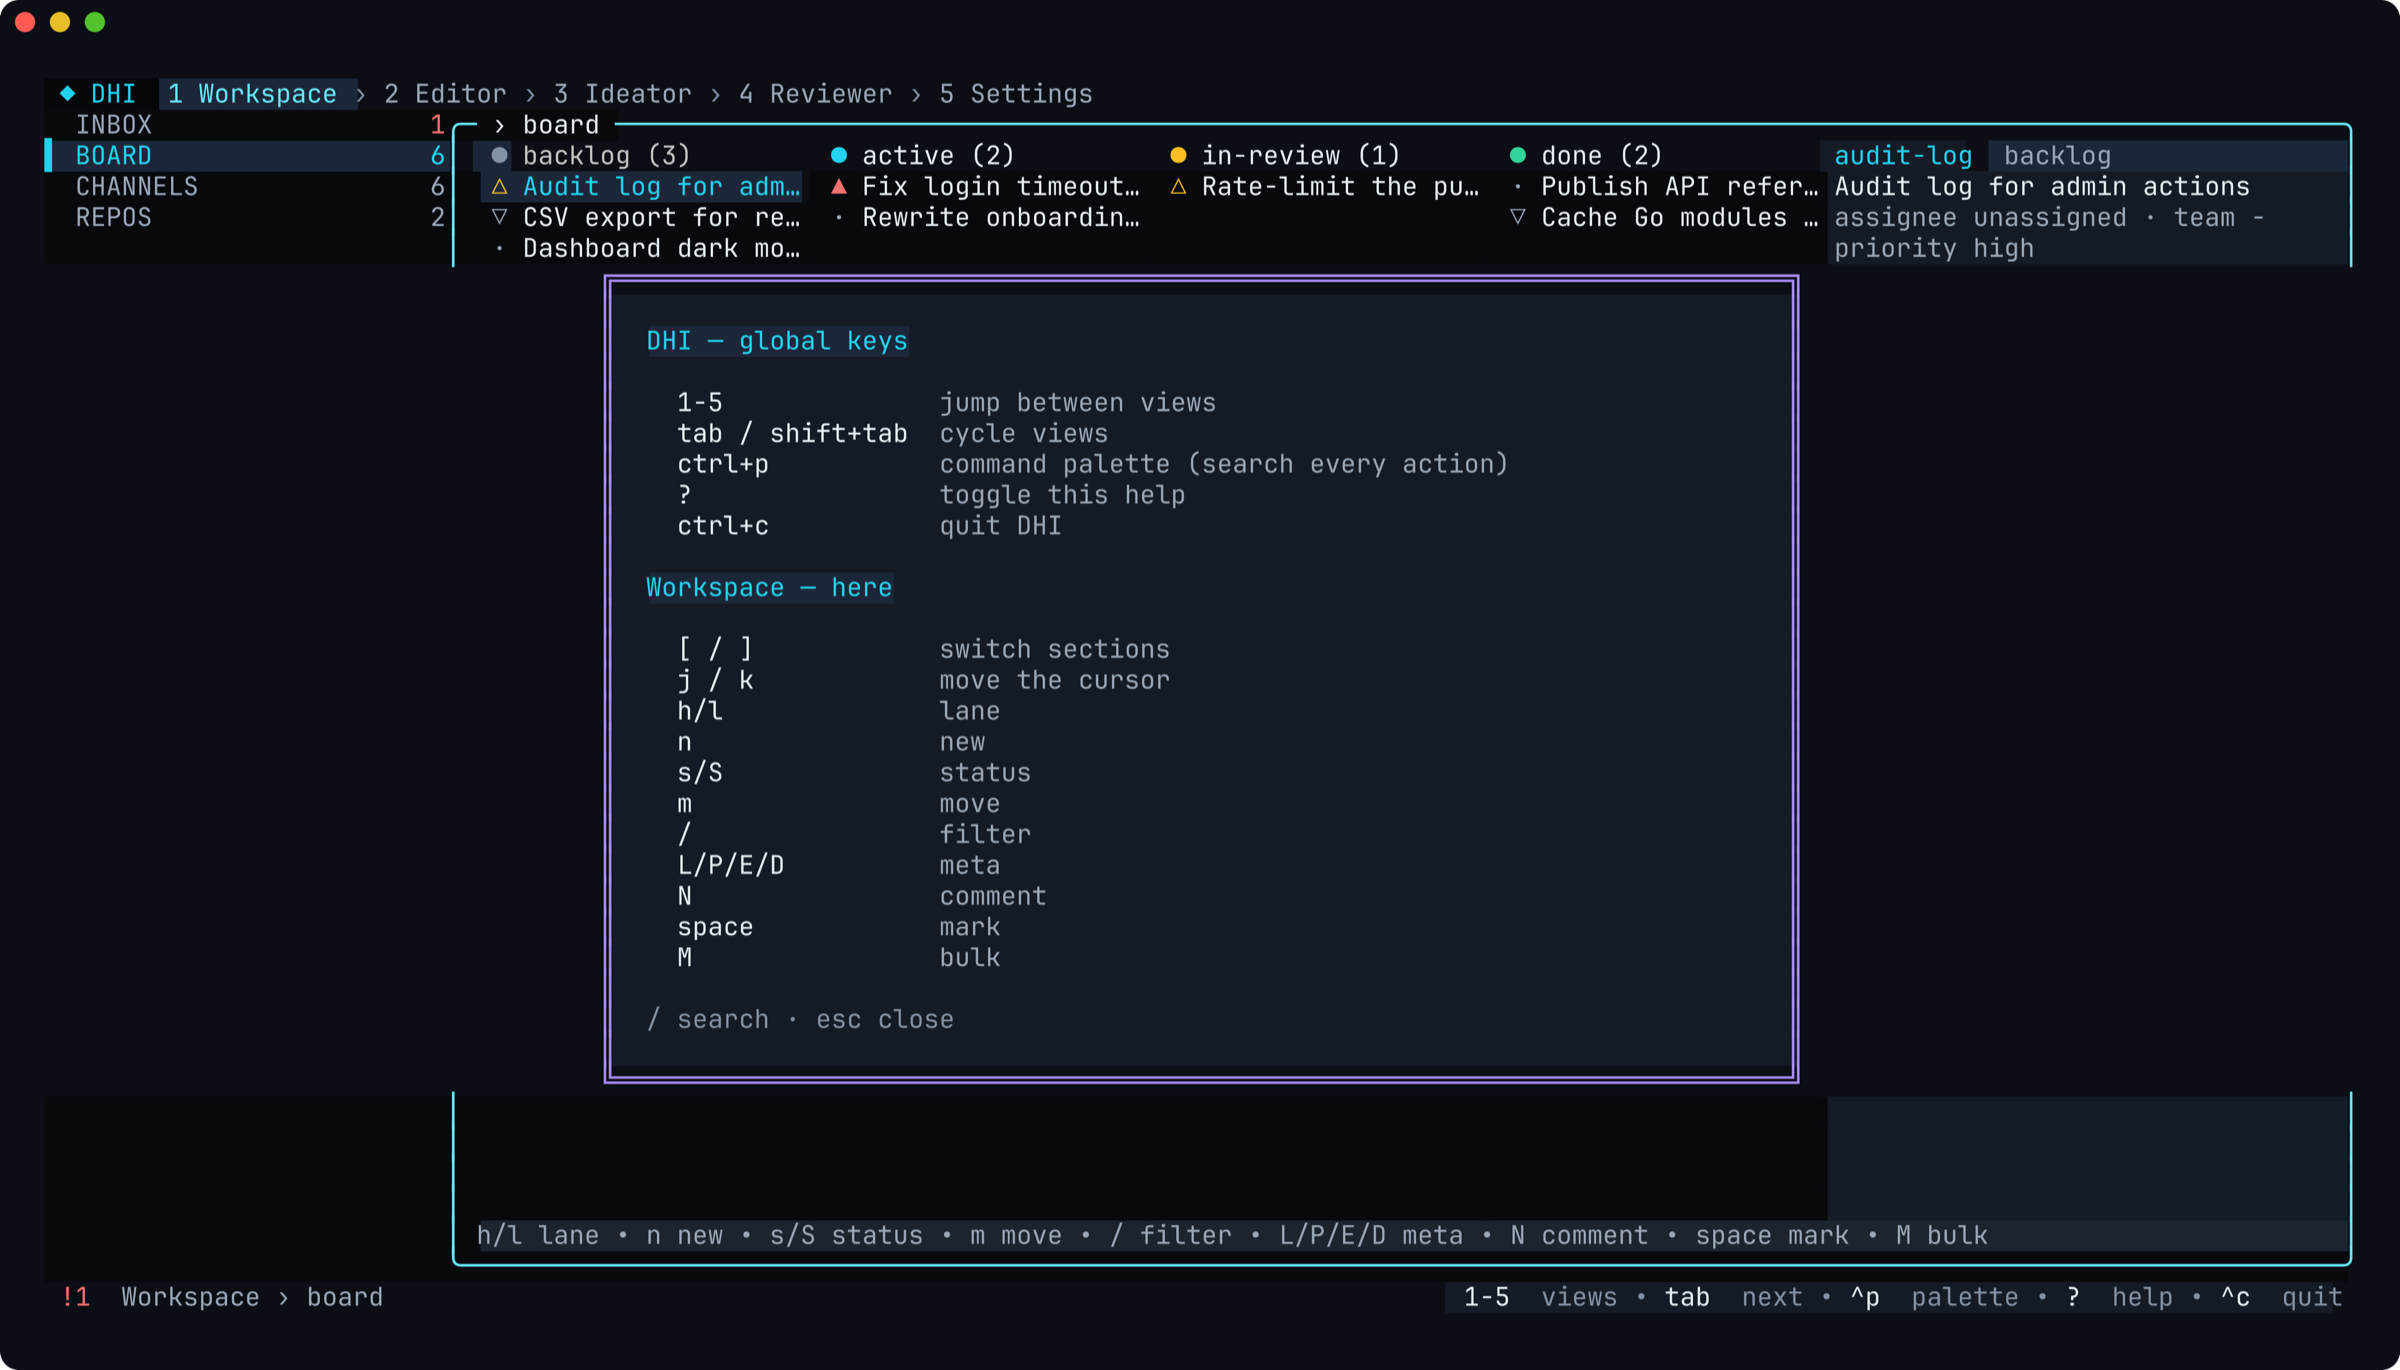
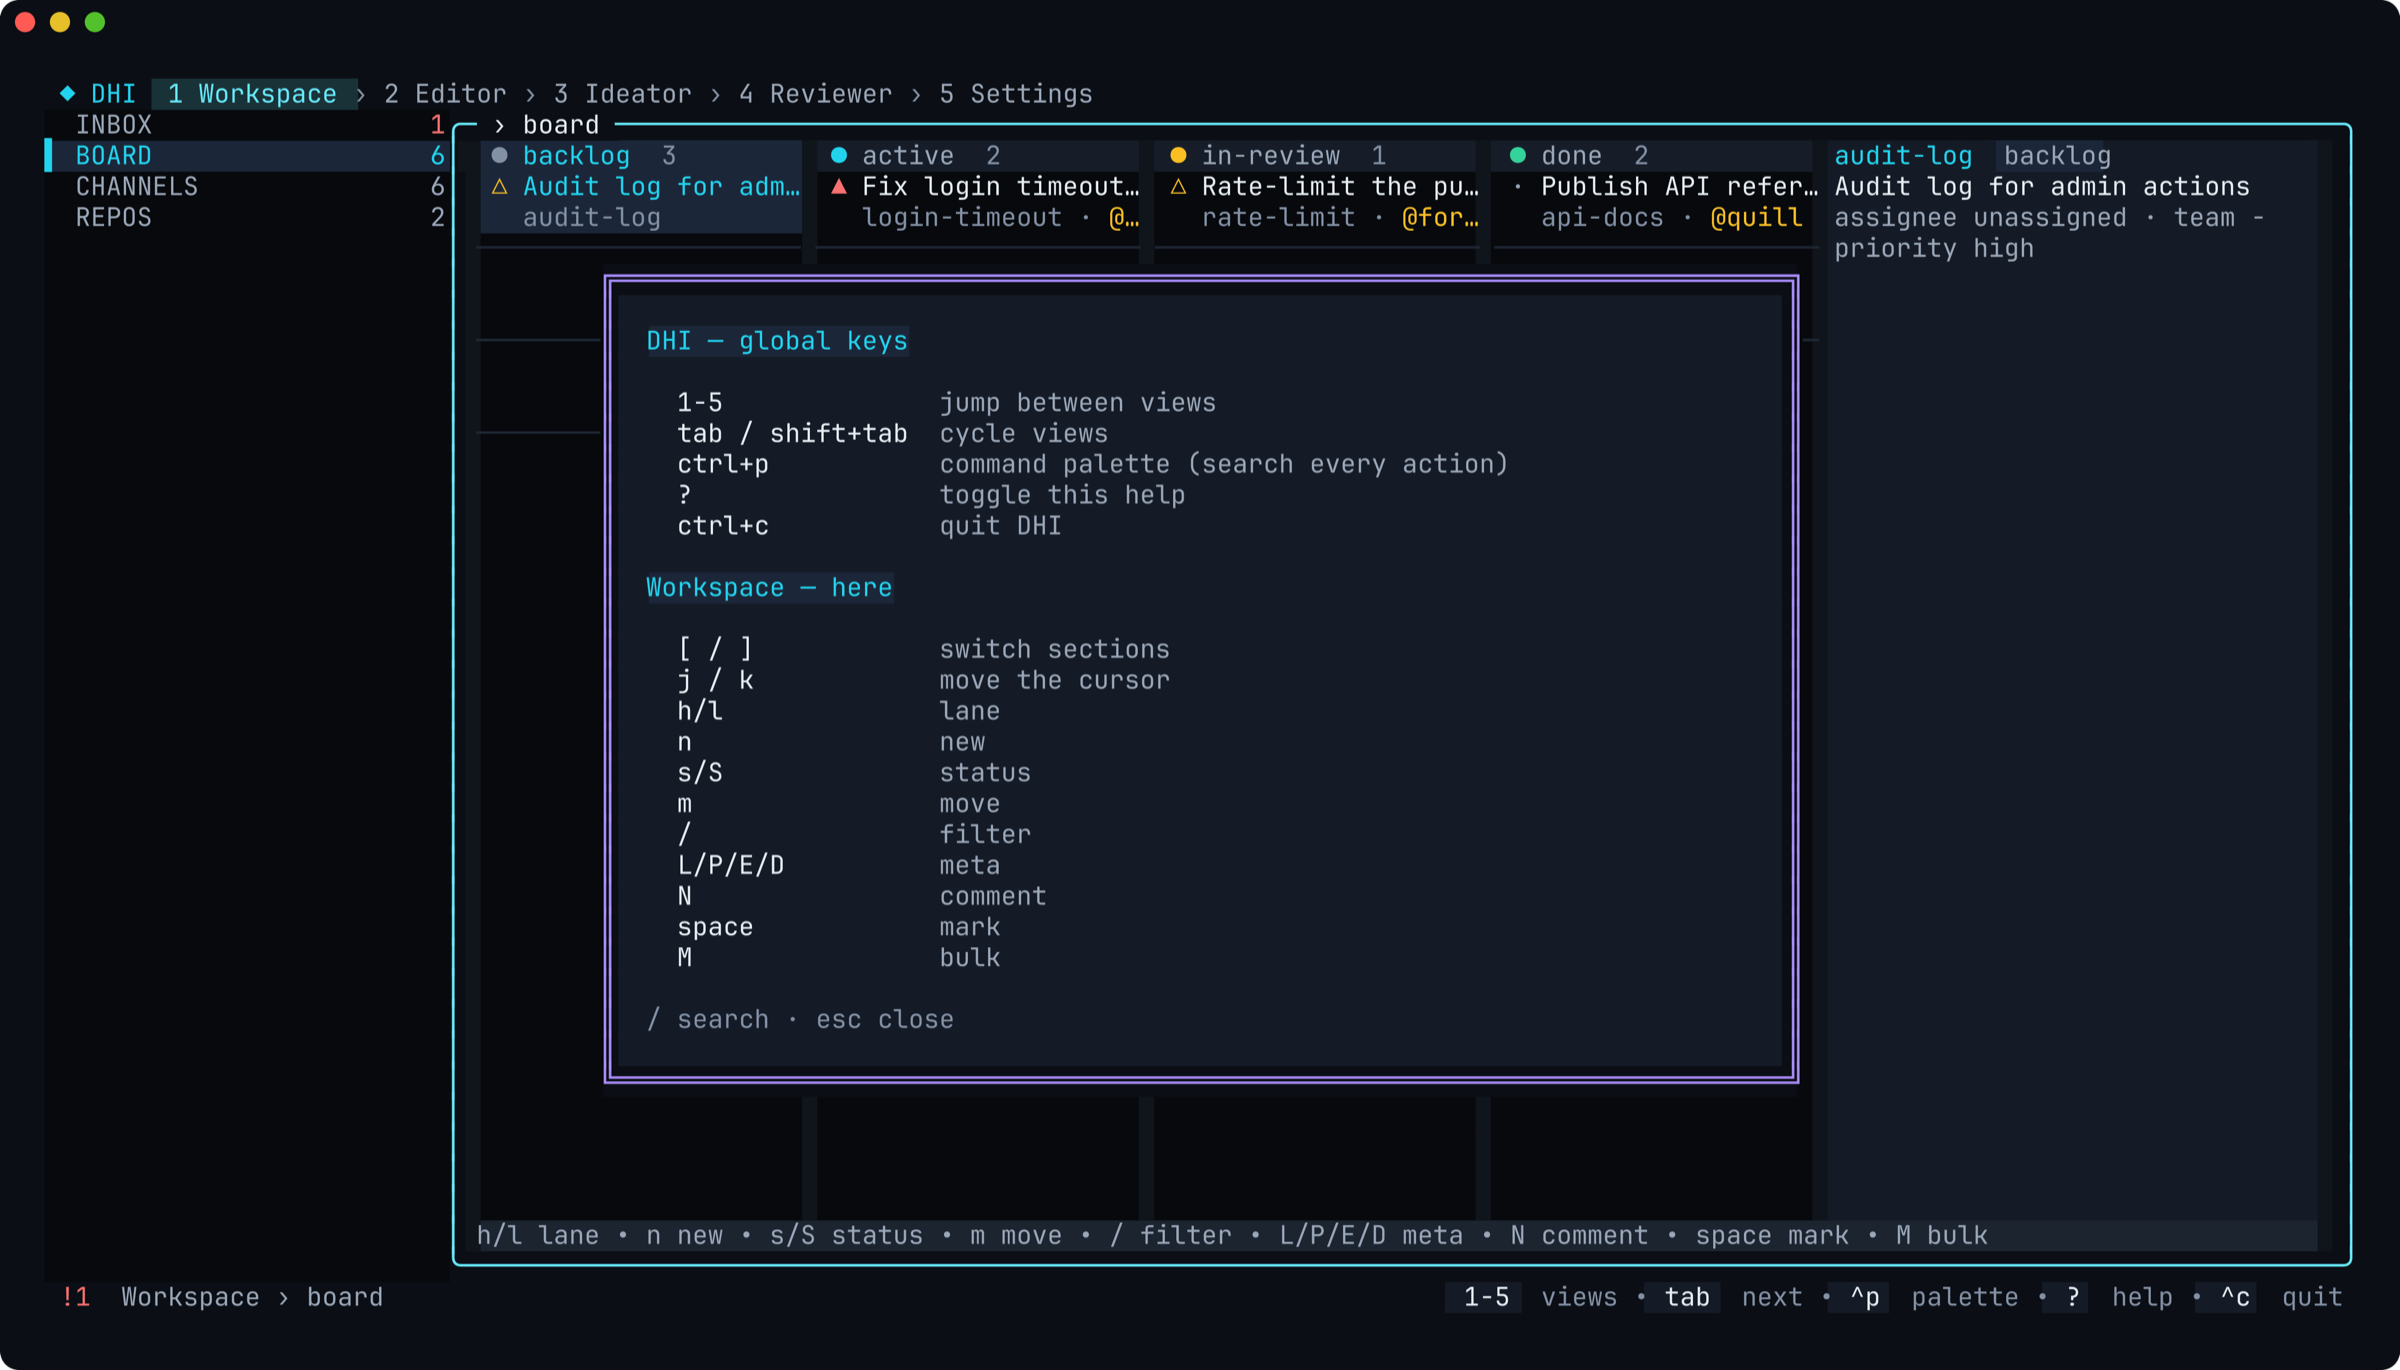
docs: README gallery covers every surface; F-064 done (F-064 P4)
Twelve regenerated screenshots (new: inbox, dialog, terminal, ideator,
settings). screenshots.sh gives the drawer shell a neutral prompt so no
real user or host lands in an image, and maps SGR 49 for freeze. Split
panes and panel titles restyle around pills instead of re-rendering
them; overlay margins clear whole phrases.

diff --git a/internal/tui/kit/modal.go b/internal/tui/kit/modal.go
@@ -178,8 +178,8 @@ func Overlay(backdrop []string, box string, width, height int) string {
 	// A one-cell margin beside the box is cleared of backdrop text (its
 	// background and any border glyphs stay) so words never butt
 	// against the box edge.
-	// The margin widens to whole words, so no fragment of a word is left
-	// peeking out beside the box.
+	// The margin widens to whole phrases, so no fragment of a word or a
+	// card title is left peeking out beside the box.
 	span := func(back string) (lo, hi int) {
 		cells := ansi.Cells(back)
 		word := func(x int) bool {
@@ -189,11 +189,13 @@ func Overlay(backdrop []string, box string, width, height int) string {
 			r := cells[x].R
 			return r != ' ' && (r < 0x2500 || r > 0x259F)
 		}
+		// A phrase continues across single spaces ("▽ CSV export"), so
+		// the clear stops only at a gap of two or more cells or a border.
 		lo, hi = max(col-1, 0), min(col+bw+1, width)
-		for word(lo - 1) {
+		for word(lo-1) || (lo-1 >= 0 && cells[lo-1].R == ' ' && word(lo-2)) {
 			lo--
 		}
-		for word(hi) {
+		for word(hi) || (hi < len(cells) && cells[hi].R == ' ' && word(hi+1)) {
 			hi++
 		}
 		return lo, hi

diff --git a/internal/tui/surfaces/editor/bg_integrity_test.go b/internal/tui/surfaces/editor/bg_integrity_test.go
@@ -19,4 +19,12 @@ func TestBackgroundIntegrity(t *testing.T) {
 	feed(m, "ctrl+t")
 	m.Resize(140, 36)
 	golden.AssertBgIntegrity(t, "wide", m.View())
+	m = newEditor(t)
+	m.Resize(160, 30)
+	m.OpenPaths(vpathAbs(t, m.ws, "alpha/app.go"), vpathAbs(t, m.ws, "beta/README.md"))
+	feed(m, "ctrl+w", "v")
+	if !m.splitActive() {
+		t.Fatal("split did not open")
+	}
+	golden.AssertBgIntegrity(t, "split", m.View())
 }

diff --git a/internal/tui/surfaces/editor/split.go b/internal/tui/surfaces/editor/split.go
@@ -91,7 +91,7 @@ func (m *Model) bufferPanel(i, w, h int, focused bool) string {
 	if focused {
 		title += m.diagChip(e)
 	} else {
-		title = theme.TextDim().Render(title)
+		title = kit.Restyle(theme.TextDim(), title) // the mode pill inside keeps its own colors
 	}
 	body := joinV(tabStrip(m.bufs, i, w-2), m.bufferView())
 	p := kit.NewPanel(title, focused)

diff --git a/internal/tui/kit/panel.go b/internal/tui/kit/panel.go
@@ -150,7 +150,7 @@ func topEdge(width int, title string, edge, titleSt lipgloss.Style) string {
 		fill = 1
 	}
 	return edge.Render(rb.TopLeft+rb.Top) +
-		titleSt.Render(head) +
+		Restyle(titleSt, head) + // titles may carry pills (F-064)
 		edge.Render(strings.Repeat(rb.Top, fill)+rb.TopRight)
 }
 

diff --git a/docs/features/F-064-ui-cohesion.md b/docs/features/F-064-ui-cohesion.md
@@ -1,6 +1,6 @@
 # F-064 — UI cohesion: background integrity, a livelier theme, richer components
 
-Status: in progress (M28)
+Status: done (M28)
 
 ## Problem
 Backgrounds were inconsistent across the app. A dialog left dark bands
@@ -23,7 +23,7 @@ structure.
   hole or paint past its width.
 - **Dialogs touch only their box.** `kit.Overlay` splices the box into the
   backdrop rows. Cells beside it keep their characters and colors, pane
-  borders stay, and a one-cell margin beside it (widened to whole words) is cleared
+  borders stay, and a one-cell margin beside it (widened to whole phrases) is cleared
   of text so nothing butts against the edge. There is no dim veil and no
   shadow row, and the box is one solid elevated block, edges included.
   The dialog is one row shorter than before.
@@ -31,9 +31,28 @@ structure.
   box drawn with corner glyphs must have every interior cell painted and
   its right edge in place. Every raw-ANSI `golden.Snapshot` runs the check,
   and each surface has a sweep test over its sections and dialogs.
-- **Theme and components.** Phase 2 adds shade and accent tokens, and
-  Phase 3 upgrades the tree, terminal, board, channels, reviewer, settings,
-  ideator and chrome. Both are listed in the acceptance section.
+- **Theme.** New tokens in all three themes: a header shade, zebra and
+  cursor-line shades, a quiet rule color, and teal and rose accents. New
+  helpers cover tinted pills, section headers, rules, stable per-author
+  colors and file-kind glyphs (plain Unicode, no Nerd Font).
+- **Components.**
+  - The file tree has guide rails, chevrons and colored kind glyphs, with
+    git letters and branch pills from a cached go-git status.
+  - The terminal drawer and git panel span the full width, show tabs as
+    pills, light their edge when focused, and carry their keys in a hint
+    footer.
+  - The editor shows tabs and the mode as pills and colors the current
+    line number.
+  - Board cards take two lines, separated by rules, under header strips
+    with counts.
+  - Channels give each agent its own color, use rule dividers and show
+    the composer as an input bar.
+  - Ideator sessions render as two-line cards with mode pills.
+  - The reviewer adds kind glyphs, a viewed meter and header strips, with
+    the review state as a pill.
+  - Settings groups CONFIG with dotted leaders and colored booleans.
+  - The active tab, section strip and mode chip are pills in the view's
+    accent.
 
 ## Acceptance
 - [x] integrity check passes for every surface/state swept (workspace
@@ -44,8 +63,8 @@ structure.
       characters outside the cleared margin stay unchanged (kit test)
 - [x] the reviewer diff fills the panel's inner width and never crosses
       the edge
-- [ ] theme gains header/zebra/cursor-line/rule shades and two accents in
+- [x] theme gains header/zebra/cursor-line/rule shades and two accents in
       all three themes, covered by the contrast tests
-- [ ] component upgrades: tree, terminal drawer, editor tabs/mode, board
+- [x] component upgrades: tree, terminal drawer, editor tabs/mode, board
       cards, channels, reviewer files, settings groups, ideator cards, chrome
-- [ ] README screenshots cover every surface
+- [x] README screenshots (12, all regenerated) cover every surface

diff --git a/README.md b/README.md
@@ -42,11 +42,17 @@ already work in:
 
 | Board and agents | Channels |
 |---|---|
-| <img src="docs/assets/board.png" alt="Kanban board with a selected task's details"> | <img src="docs/assets/channels.png" alt="The #general channel with messages from agents"> |
-| **Editor: split panes** | **Project-wide regex replace, previewed** |
-| <img src="docs/assets/editor.png" alt="Two files side by side in split panes"> | <img src="docs/assets/replace.png" alt="Preview of a regex replace across files"> |
-| **Help that follows you** | **Narrow terminals get the full UI** |
-| <img src="docs/assets/help.png" alt="Searchable keyboard help over the board"> | <img src="docs/assets/narrow.png" alt="The workspace at 72 columns"> |
+| <img src="docs/assets/board.png" alt="Kanban board with two-line cards per lane and the selected task's details"> | <img src="docs/assets/channels.png" alt="The #general channel with each agent in its own color"> |
+| **Inbox: what needs you** | **Dialogs stay in their box** |
+| <img src="docs/assets/inbox.png" alt="The inbox with a task ready for review and its preview"> | <img src="docs/assets/dialog.png" alt="The new-task dialog over the board"> |
+| **Editor: file tree and split panes** | **A real terminal, one tab per repo** |
+| <img src="docs/assets/editor.png" alt="A file tree with guides and branch chips beside two files in split panes"> | <img src="docs/assets/terminal.png" alt="The terminal drawer running git log under the editor"> |
+| **Project-wide regex replace, previewed** | **Ideator: round-table sessions** |
+| <img src="docs/assets/replace.png" alt="Preview of a regex replace across files"> | <img src="docs/assets/ideator.png" alt="An ideation session card with its mode, moderator and crew"> |
+| **Settings, grouped** | **Help that follows you** |
+| <img src="docs/assets/settings.png" alt="Settings grouped into appearance, editor, scopes and conventions"> | <img src="docs/assets/help.png" alt="Searchable keyboard help over the board"> |
+| **Narrow terminals get the full UI** | |
+| <img src="docs/assets/narrow.png" alt="The workspace at 72 columns"> | |
 
 ## Install
 

diff --git a/STATE.md b/STATE.md
@@ -1,9 +1,27 @@
 # STATE — current position
 
-Updated: 2026-10-09 (session 51: M27 public readiness — CI green and
-branch-protected, layout contract, interaction polish, editor replace +
-split, README/screenshots/community files, live verifications. Plan:
-`~/.claude/plans/mighty-wandering-rainbow.md`.)
+Updated: 2026-10-09 (session 52: M28 UI cohesion, F-064, on branch
+`f064-ui-cohesion`, not merged. Plan:
+`~/.claude/plans/cryptic-meandering-volcano.md`.)
+
+### Session 52 (M28: UI cohesion, F-064)
+
+- DONE on branch `f064-ui-cohesion` (4 phases, committed per phase): background
+  integrity, theme tokens, component upgrades, README screenshots. See
+  `docs/features/F-064-ui-cohesion.md`.
+- Root cause of the "bands" bug: a background style wrapping already-styled text
+  (`bg.Render(styled)`) loses its background at every inner reset. Use
+  `kit.PaintRow(row, w, bgStyle)` or `kit.Restyle(style, s)`, never `st.Render` on
+  composite strings. `golden.Snapshot` now fails on such holes when its input
+  carries ANSI; tests that pre-strip their output skip the check, so add a sweep
+  case to `bg_integrity_test.go` for any new screen.
+- Dialogs: `kit.Overlay` no longer dims; it splices and clears a phrase-wide side
+  margin. A `kit.Modal` is now Height = body + 2 (no shadow row).
+- Gotchas: `⎇` is missing from many fonts (branches show as pills); freeze ignores
+  SGR 39 and 49, so `scripts/screenshots.sh` rewrites both; the drawer's shell needs
+  a neutral prompt in the sandbox home (the script writes one).
+- Next: open a PR for the branch; consider zebra rows (`BgRowAlt` is defined but
+  not used yet) and cursor-line shading in the editor.
 
 ### Session 51 (M27: public readiness)
 

diff --git a/ROADMAP.md b/ROADMAP.md
@@ -1002,3 +1002,15 @@ GitHub setup, a real release, and every deferral either done or specced.
   - [x] Full-screen programs in the terminal (F-061, ADR-0030): vim/htop/less, ctrl+c to the program
   - [x] Pack signatures: verification already shipped (F-034 follow-on); publisher tool `scripts/registry-sign` (F-062)
   - [x] KB retrieval by shared words (F-063): hashed TF-IDF vectors, honest about not being semantic
+
+## M28 — UI cohesion (session 52, F-064)
+
+- [x] P1 Background integrity: `ansi.Fill` + `kit.PaintRow` everywhere a row is painted;
+      dialogs splice into the backdrop (no veil/shadow, borders survive); `golden.BgHoles`
+      runs on every raw-ANSI snapshot plus per-surface sweeps (all three themes for workspace)
+- [x] P2 Theme: BgHeader/BgRowAlt/BgCursorLine/Rule/Accent3/Accent4, pills, author colors,
+      file kinds; contrast tests cover them
+- [x] P3 Components: tree, terminal drawer, git panel, editor tabs/mode, board cards, channels,
+      ideator cards, reviewer columns, grouped settings, chrome pills
+- [x] P4 README: 12 screenshots regenerated (`scripts/screenshots.sh` now hides the real prompt
+      and maps SGR 39/49 for freeze)

diff --git a/docs/features/F-026-ui-beauty.md b/docs/features/F-026-ui-beauty.md
@@ -31,7 +31,7 @@ primitives, surfaces consume them — no exceptions.
   rune-count helpers in ansi + kit.
 - kit: `Scroller`/`Scrollbar` (offset + position indicator); `List`
   renders `Desc`, wraps titles, fixes badge overflow, gains headers;
-  `Rail` glyph slot + scroll + counts; `Modal` shadow + scroll for tall
+  `Rail` glyph slot + scroll + counts; `Modal` shadow (replaced by F-064: no veil, no shadow, splice-only overlay) + scroll for tall
   bodies + ellipsis clip; `Form` canonical (in-value cursor, shift+tab,
   paste) absorbing workspace/settings duplicates; `HintBar` ellipsis
   char; `StatusLine` Center + overflow truncation; `Panel` footer slot.
